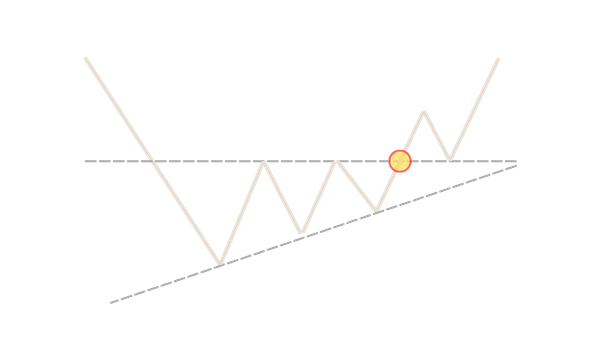
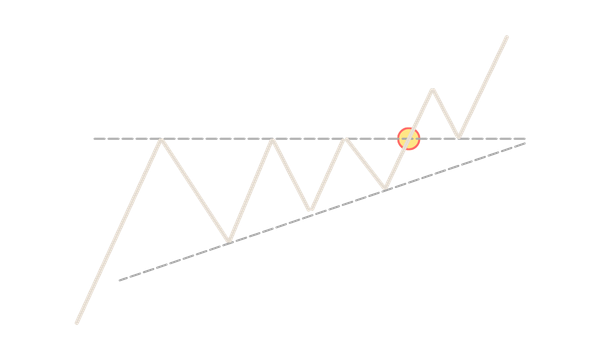
v1.6.1: Expand Chart Pattern Academy to 14 patterns with detail modal
- Add 10 new chart patterns (total 14): head-shoulders, inverse h&s,
  diamond top/bottom, rounding top/bottom, bull/bear flag, rising wedge, cup & handle
- Add tap-to-expand modal with enlarged image and detailed usage info
- Each pattern includes: When to use, Confirmation signal, Target projection
- Fix TypeScript errors in data.ts

diff --git a/src/constants/patterns.tsx b/src/constants/patterns.tsx
@@ -259,31 +259,108 @@ export interface ChartPattern {
     name: string;
     desc: string;
     imageKey: string; // e.g., "double-top" -> double-top-l.webp / double-top-d.webp
+    details?: string; // Extended description for modal view
 }
 
 export const CHART_PATTERNS: ChartPattern[] = [
+    // Reversal Patterns
     {
         id: 1,
         name: "Double Top",
         desc: "Bearish reversal. Two peaks at same level.",
-        imageKey: "double-top"
+        imageKey: "double-top",
+        details: "When to use: After an uptrend, price makes two highs at roughly the same level, failing to break higher.\n\nConfirmation: Wait for price to break below the neckline (the low point between the two peaks).\n\nTarget: Measure the distance from peaks to neckline, then project downward from the breakout point."
     },
     {
         id: 2,
         name: "Double Bottom",
         desc: "Bullish reversal. Two troughs at same level.",
-        imageKey: "double-bottom"
+        imageKey: "double-bottom",
+        details: "When to use: After a downtrend, price makes two lows at roughly the same level, showing strong support.\n\nConfirmation: Wait for price to break above the neckline (the high point between the two troughs).\n\nTarget: Measure the distance from troughs to neckline, then project upward from the breakout point."
     },
     {
         id: 3,
-        name: "Ascending Triangle",
-        desc: "Bullish continuation. Flat top, rising lows.",
-        imageKey: "ascending-triangle"
+        name: "Head & Shoulders",
+        desc: "Bearish reversal. Three peaks, middle highest.",
+        imageKey: "head-shoulders",
+        details: "When to use: After an uptrend, look for three peaks where the middle peak (head) is higher than the two side peaks (shoulders).\n\nConfirmation: Wait for price to break below the neckline connecting the two troughs.\n\nTarget: Measure the distance from head to neckline, then project downward from the breakout point."
     },
     {
         id: 4,
+        name: "Inverse Head & Shoulders",
+        desc: "Bullish reversal. Three troughs, middle lowest.",
+        imageKey: "invert-head-shoulders",
+        details: "When to use: After a downtrend, look for three troughs where the middle trough (head) is lower than the two side troughs (shoulders).\n\nConfirmation: Wait for price to break above the neckline connecting the two peaks.\n\nTarget: Measure the distance from head to neckline, then project upward from the breakout point."
+    },
+    {
+        id: 5,
+        name: "Diamond Top",
+        desc: "Bearish reversal. Diamond shape at top.",
+        imageKey: "diamond-top",
+        details: "When to use: After an uptrend, price forms a diamond shape with expanding then contracting volatility.\n\nConfirmation: Wait for price to break below the lower right trendline of the diamond.\n\nTarget: Measure the height of the diamond at its widest point, then project downward from the breakout."
+    },
+    {
+        id: 6,
+        name: "Diamond Bottom",
+        desc: "Bullish reversal. Diamond shape at bottom.",
+        imageKey: "diamond-bottom",
+        details: "When to use: After a downtrend, price forms a diamond shape with expanding then contracting volatility.\n\nConfirmation: Wait for price to break above the upper right trendline of the diamond.\n\nTarget: Measure the height of the diamond at its widest point, then project upward from the breakout."
+    },
+    {
+        id: 7,
+        name: "Rounding Top",
+        desc: "Bearish reversal. Gradual curved top.",
+        imageKey: "round-top",
+        details: "When to use: After an uptrend, price gradually curves over forming a dome or saucer shape inverted.\n\nConfirmation: Wait for price to break below the support level at the pattern's starting point.\n\nTarget: This is a slow pattern; expect gradual decline. Measure the height of the dome for potential target."
+    },
+    {
+        id: 8,
+        name: "Rounding Bottom",
+        desc: "Bullish reversal. Gradual curved bottom.",
+        imageKey: "round-bottom",
+        details: "When to use: After a downtrend, price gradually curves upward forming a saucer or bowl shape.\n\nConfirmation: Wait for price to break above the resistance level at the pattern's starting point.\n\nTarget: This is a slow pattern; expect gradual rise. Measure the depth of the bowl for potential target."
+    },
+    // Continuation Patterns
+    {
+        id: 9,
+        name: "Ascending Triangle",
+        desc: "Bullish continuation. Flat top, rising lows.",
+        imageKey: "ascending-triangle",
+        details: "When to use: During an uptrend, price consolidates with a flat resistance line and rising support (higher lows).\n\nConfirmation: Wait for price to break above the flat resistance line with increased volume.\n\nTarget: Measure the height of the triangle at its base, then project upward from the breakout point."
+    },
+    {
+        id: 10,
         name: "Descending Triangle",
         desc: "Bearish continuation. Flat bottom, falling highs.",
-        imageKey: "descending-triangle"
+        imageKey: "descending-triangle",
+        details: "When to use: During a downtrend, price consolidates with a flat support line and falling resistance (lower highs).\n\nConfirmation: Wait for price to break below the flat support line with increased volume.\n\nTarget: Measure the height of the triangle at its base, then project downward from the breakout point."
+    },
+    {
+        id: 11,
+        name: "Bull Flag",
+        desc: "Bullish continuation. Sharp rise, then consolidation.",
+        imageKey: "bull-flag",
+        details: "When to use: After a sharp upward move (flagpole), price consolidates in a small downward-sloping channel (flag).\n\nConfirmation: Wait for price to break above the upper trendline of the flag.\n\nTarget: Measure the length of the flagpole, then project upward from the breakout point."
+    },
+    {
+        id: 12,
+        name: "Bear Flag",
+        desc: "Bearish continuation. Sharp drop, then consolidation.",
+        imageKey: "bear-flag",
+        details: "When to use: After a sharp downward move (flagpole), price consolidates in a small upward-sloping channel (flag).\n\nConfirmation: Wait for price to break below the lower trendline of the flag.\n\nTarget: Measure the length of the flagpole, then project downward from the breakout point."
+    },
+    {
+        id: 13,
+        name: "Rising Wedge",
+        desc: "Bearish pattern. Converging upward trendlines.",
+        imageKey: "rising-wedge",
+        details: "When to use: Price moves upward within two converging trendlines, both sloping up. Often signals weakening momentum.\n\nConfirmation: Wait for price to break below the lower trendline of the wedge.\n\nTarget: Measure the height of the wedge at its base, then project downward from the breakout point."
+    },
+    {
+        id: 14,
+        name: "Cup & Handle",
+        desc: "Bullish continuation. U-shape with small handle.",
+        imageKey: "cup-handle",
+        details: "When to use: After an uptrend, price forms a rounded U-shape (cup), followed by a small downward drift (handle).\n\nConfirmation: Wait for price to break above the resistance level at the top of the cup.\n\nTarget: Measure the depth of the cup, then project upward from the breakout point."
     },
 ];

diff --git a/src/App.tsx b/src/App.tsx
@@ -16,6 +16,7 @@ class ErrorBoundary extends Component<{ children: ReactNode }, { hasError: boole
 
 import { appStyles, Colors, GLOBAL_STYLES, LOADING_STYLES, UI_STYLES, MODAL_STYLES } from './styles/appStyles';
 import { ACADEMY_PATTERNS, CHART_PATTERNS } from './constants/patterns';
+import type { ChartPattern } from './constants/patterns';
 import { Chart } from './components/Chart';
 import PositionSizeCalculator from './components/PositionSizeCalculator';
 import { fetchRandomStockData } from './utils/data';
@@ -73,6 +74,7 @@ const AppContent: React.FC = () => {
   const [tradeAmount, setTradeAmount] = useState(1000);
   const [showResetConfirm, setShowResetConfirm] = useState(false);
   const [academySection, setAcademySection] = useState<'candle' | 'chart'>('candle');
+  const [selectedChartPattern, setSelectedChartPattern] = useState<ChartPattern | null>(null);
 
   // Check if in landscape mode and on trade screen
   const isLandscapeTrading = orientation.isLandscape && activeTab === 'trade';
@@ -584,7 +586,11 @@ const AppContent: React.FC = () => {
                     const suffix = resolvedTheme === 'sandstone' ? 'l' : 'd';
                     const imgSrc = `/patterns/${pattern.imageKey}-${suffix}.webp`;
                     return (
-                      <div key={pattern.id} className="academy-card">
+                      <div
+                        key={pattern.id}
+                        className={`academy-card ${pattern.details ? 'clickable' : ''}`}
+                        onClick={() => pattern.details && setSelectedChartPattern(pattern)}
+                      >
                         <div className="academy-img-wrapper">
                           <img
                             src={imgSrc}
@@ -600,6 +606,9 @@ const AppContent: React.FC = () => {
                           <h3>{pattern.name}</h3>
                           <p>{pattern.desc}</p>
                         </div>
+                        {pattern.details && (
+                          <div className="pattern-tap-hint">Tap for details</div>
+                        )}
                       </div>
                     );
                   })}
@@ -959,6 +968,46 @@ const AppContent: React.FC = () => {
                   >
                     Reset Balance
                   </button>
+                </div>
+              </motion.div>
+            </motion.div>
+          )}
+
+          {/* Chart Pattern Detail Modal */}
+          {selectedChartPattern && (
+            <motion.div
+              initial={{ opacity: 0 }}
+              animate={{ opacity: 1 }}
+              exit={{ opacity: 0 }}
+              className="modal-overlay"
+              onClick={() => setSelectedChartPattern(null)}
+            >
+              <motion.div
+                initial={{ scale: 0.9, opacity: 0 }}
+                animate={{ scale: 1, opacity: 1 }}
+                exit={{ scale: 0.9, opacity: 0 }}
+                className="pattern-detail-modal"
+                onClick={(e) => e.stopPropagation()}
+              >
+                <button className="pattern-modal-close" onClick={() => setSelectedChartPattern(null)}>
+                  <X size={24} />
+                </button>
+                <div className="pattern-modal-image">
+                  <img
+                    src={`/patterns/${selectedChartPattern.imageKey}-${resolvedTheme === 'sandstone' ? 'l' : 'd'}.webp`}
+                    alt={selectedChartPattern.name}
+                  />
+                </div>
+                <div className="pattern-modal-content">
+                  <h2>{selectedChartPattern.name}</h2>
+                  <p className="pattern-modal-desc">{selectedChartPattern.desc}</p>
+                  {selectedChartPattern.details && (
+                    <div className="pattern-modal-details">
+                      {selectedChartPattern.details.split('\n\n').map((paragraph, i) => (
+                        <p key={i}>{paragraph}</p>
+                      ))}
+                    </div>
+                  )}
                 </div>
               </motion.div>
             </motion.div>

diff --git a/src/styles/appStyles.ts b/src/styles/appStyles.ts
@@ -772,4 +772,113 @@ export const MODAL_STYLES = `
   .toggle-switch.active { background: var(--color-green); }
   .toggle-knob { width: 20px; height: 20px; background: #FFF; border-radius: 50%; position: absolute; top: 2px; left: 2px; transition: left 0.3s; box-shadow: 0 2px 4px rgba(0,0,0,0.1); }
   .toggle-switch.active .toggle-knob { left: 22px; }
+
+  /* Chart Pattern Detail Modal */
+  .academy-card.clickable {
+    cursor: pointer;
+    transition: transform 0.2s, box-shadow 0.2s;
+    position: relative;
+  }
+
+  .academy-card.clickable:hover {
+    transform: translateY(-2px);
+    box-shadow: 0 4px 12px rgba(0,0,0,0.1);
+  }
+
+  .academy-card.clickable:active {
+    transform: scale(0.98);
+  }
+
+  .pattern-tap-hint {
+    font-size: 0.65rem;
+    color: var(--color-green);
+    font-weight: 600;
+    margin-top: 8px;
+    opacity: 0.8;
+  }
+
+  .pattern-detail-modal {
+    background: var(--bg-primary);
+    width: 100%;
+    max-width: 400px;
+    border-radius: 16px;
+    overflow: hidden;
+    max-height: 90vh;
+    display: flex;
+    flex-direction: column;
+    position: relative;
+    margin: 20px;
+    box-shadow: 0 20px 60px rgba(0,0,0,0.3);
+  }
+
+  .pattern-modal-close {
+    position: absolute;
+    top: 12px;
+    right: 12px;
+    background: rgba(0,0,0,0.5);
+    border: none;
+    border-radius: 50%;
+    width: 36px;
+    height: 36px;
+    display: flex;
+    align-items: center;
+    justify-content: center;
+    cursor: pointer;
+    color: white;
+    z-index: 10;
+    transition: background 0.2s;
+  }
+
+  .pattern-modal-close:hover {
+    background: rgba(0,0,0,0.7);
+  }
+
+  .pattern-modal-image {
+    width: 100%;
+    aspect-ratio: 600 / 360;
+    background: var(--bg-secondary);
+  }
+
+  .pattern-modal-image img {
+    width: 100%;
+    height: 100%;
+    object-fit: cover;
+  }
+
+  .pattern-modal-content {
+    padding: 24px;
+    overflow-y: auto;
+  }
+
+  .pattern-modal-content h2 {
+    font-size: 1.5rem;
+    font-weight: 800;
+    color: var(--color-text);
+    margin-bottom: 8px;
+  }
+
+  .pattern-modal-desc {
+    font-size: 0.95rem;
+    color: var(--color-text-secondary);
+    margin-bottom: 16px;
+    line-height: 1.5;
+  }
+
+  .pattern-modal-details {
+    background: var(--bg-tertiary);
+    border-radius: 12px;
+    padding: 16px;
+    border: 1px solid var(--color-border);
+  }
+
+  .pattern-modal-details p {
+    font-size: 0.9rem;
+    color: var(--color-text);
+    line-height: 1.6;
+    margin-bottom: 12px;
+  }
+
+  .pattern-modal-details p:last-child {
+    margin-bottom: 0;
+  }
 `;

diff --git a/src/utils/data.ts b/src/utils/data.ts
@@ -96,7 +96,7 @@ export const fetchRandomStockData = async (): Promise<StockData> => {
         low: parseFloat(low),
         close: parseFloat(close),
         volume: volume ? parseInt(volume) : undefined
-      };
+      } as Candle;
     }).filter((c): c is Candle => c !== null && !isNaN(c.close));
 
     // Ensure we have enough data to pick a window

diff --git a/CLAUDE.md b/CLAUDE.md
@@ -4,7 +4,7 @@ This file provides guidance to Claude Code (claude.ai/code) when working with co
 
 ## Project Overview
 
-**Candle Master v1.6.0** is a **Trading Simulator Game & Education Platform**.
+**Candle Master v1.6.1** is a **Trading Simulator Game & Education Platform**.
 - **Core Concept**: Users practice trading on historical data without knowing the stock beforehand (Blind Trading).
 - **Gameplay**:
     - Users see candlesticks, MA indicators (20/50), and Volume.
@@ -79,7 +79,8 @@ This file provides guidance to Claude Code (claude.ai/code) when working with co
 - Location: `public/patterns/`
 - Format: `{pattern-name}-l.webp` (light) / `{pattern-name}-d.webp` (dark)
 - Size: 600 x 360 px
-- Current patterns: double-top, double-bottom, ascending-triangle, descending-triangle
+- Tap-to-expand: Each pattern has detailed usage info (When to use, Confirmation, Target)
+- **14 patterns**: double-top, double-bottom, head-shoulders, invert-head-shoulders, diamond-top, diamond-bottom, round-top, round-bottom, ascending-triangle, descending-triangle, bull-flag, bear-flag, rising-wedge, cup-handle
 
 ## Common Commands
 
